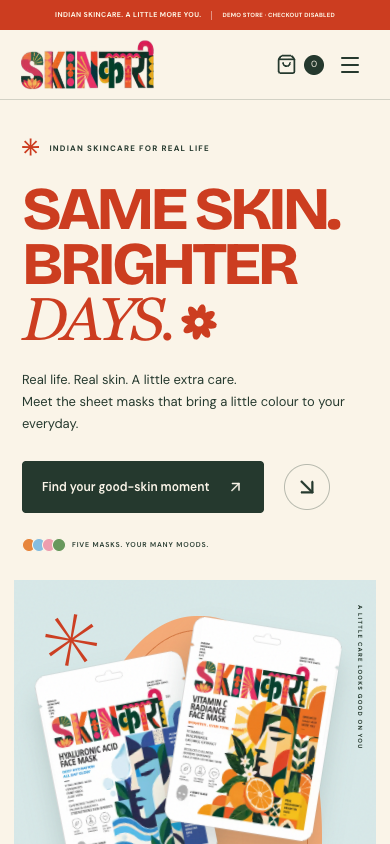
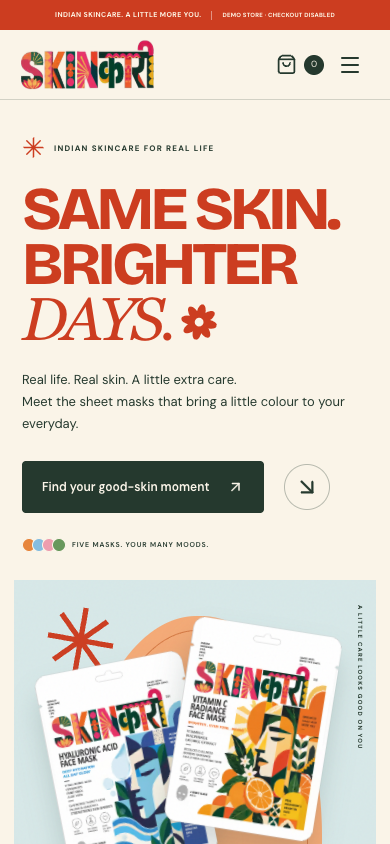
Render brand decorations as SVG across devices

Changed region(s): [[0.0615, 0.154, 0.5538, 0.1848], [0.1231, 0.7085, 0.3077, 0.8009]]

diff --git a/src/app/page.tsx b/src/app/page.tsx
@@ -8,6 +8,7 @@ import {
   Waves,
 } from "lucide-react";
 import { Hero } from "@/components/hero";
+import { BrandSpark } from "@/components/brand-spark";
 import { ProductCard } from "@/components/product-card";
 import { Spotlight } from "@/components/spotlight";
 import { Reveal } from "@/components/motion";
@@ -25,13 +26,21 @@ export default async function Home() {
       <Hero />
       <div className="brand-ribbon" aria-hidden="true">
         <span>REAL SKIN</span>
-        <span>✳</span>
+        <span>
+          <BrandSpark />
+        </span>
         <span>COLOURFUL CARE</span>
-        <span>✳</span>
+        <span>
+          <BrandSpark />
+        </span>
         <span>A MOMENT FOR YOU</span>
-        <span>✳</span>
+        <span>
+          <BrandSpark />
+        </span>
         <span>BRIGHTER DAYS</span>
-        <span>✳</span>
+        <span>
+          <BrandSpark />
+        </span>
       </div>
       <section className="section product-discovery" id="meet-the-masks">
         <Reveal>
@@ -123,7 +132,9 @@ export default async function Home() {
       <section className="section story-section">
         <Reveal className="story-art">
           <span className="story-arch" />
-          <span className="story-sun">✳</span>
+          <span className="story-sun">
+            <BrandSpark />
+          </span>
           <p>
             ROOTED IN
             <br />
@@ -238,7 +249,7 @@ export default async function Home() {
               n: "03",
               title: "Pat. Glow. Go.",
               text: "Pat the remaining serum into your face and neck.",
-              icon: "✳",
+              icon: <BrandSpark />,
             },
           ].map((step) => (
             <Reveal className="ritual-step" key={step.n}>

diff --git a/src/components/hero.tsx b/src/components/hero.tsx
@@ -3,12 +3,16 @@ import Image from "next/image";
 import Link from "next/link";
 import { ArrowDownRight, ArrowUpRight } from "lucide-react";
 import { motion } from "motion/react";
+import { BrandSpark } from "@/components/brand-spark";
 export function Hero() {
   return (
     <section className="hero">
       <div className="hero-copy">
         <p className="eyebrow">
-          <span className="tiny-spark">✳</span> INDIAN SKINCARE FOR REAL LIFE
+          <span className="tiny-spark">
+            <BrandSpark />
+          </span>{" "}
+          INDIAN SKINCARE FOR REAL LIFE
         </p>
         <motion.h1
           initial={false}
@@ -71,7 +75,7 @@ export function Hero() {
       <div className="hero-art">
         <div className="hero-arch" aria-hidden="true" />
         <span className="hero-art-star" aria-hidden="true">
-          ✳
+          <BrandSpark />
         </span>
         <span className="hero-vertical">A LITTLE CARE LOOKS GOOD ON YOU</span>
         <motion.div

diff --git a/src/app/products/[handle]/page.tsx b/src/app/products/[handle]/page.tsx
@@ -6,6 +6,7 @@ import { getProduct, getProducts } from "@/lib/commerce";
 import { getEditorialProduct } from "@/data/products";
 import { ProductPurchase } from "@/components/product-purchase";
 import { ProductCard } from "@/components/product-card";
+import { BrandSpark } from "@/components/brand-spark";
 import { jsonLd, pageMetadata, siteUrl } from "@/lib/seo";
 type Props = { params: Promise<{ handle: string }> };
 export async function generateMetadata({ params }: Props) {
@@ -67,7 +68,7 @@ export default async function ProductPage({ params }: Props) {
           >
             <span className="detail-art-circle" />
             <span className="detail-art-flower" aria-hidden="true">
-              ✳
+              <BrandSpark />
             </span>
             {image && (
               <Image

diff --git a/src/components/spotlight.tsx b/src/components/spotlight.tsx
@@ -5,6 +5,7 @@ import Link from "next/link";
 import { ArrowUpRight } from "lucide-react";
 import { AnimatePresence, motion } from "motion/react";
 import { getEditorialProduct } from "@/data/products";
+import { BrandSpark } from "@/components/brand-spark";
 import type { Product } from "@/lib/commerce/types";
 export function Spotlight({ products }: { products: Product[] }) {
   const [active, setActive] = useState(0);
@@ -64,7 +65,7 @@ export function Spotlight({ products }: { products: Product[] }) {
       <div className="spotlight-art">
         <div className="spotlight-circle" aria-hidden="true" />
         <span className="spotlight-star" aria-hidden="true">
-          ✳
+          <BrandSpark />
         </span>
         <AnimatePresence mode="wait" initial={false}>
           <motion.div

diff --git a/src/app/shop/page.tsx b/src/app/shop/page.tsx
@@ -2,6 +2,7 @@ import Link from "next/link";
 import { getProducts } from "@/lib/commerce";
 import { getEditorialProduct } from "@/data/products";
 import { ProductCard } from "@/components/product-card";
+import { BrandSpark } from "@/components/brand-spark";
 import { pageMetadata } from "@/lib/seo";
 export const metadata = pageMetadata(
   "Shop all face masks",
@@ -77,7 +78,9 @@ export default async function Shop({
         </p>
       )}
       <div className="shop-footer-note">
-        <span>✳</span>
+        <span>
+          <BrandSpark />
+        </span>
         <p>
           Same skin. A different kind of day.
           <br />

diff --git a/src/components/footer.tsx b/src/components/footer.tsx
@@ -1,5 +1,6 @@
 import Link from "next/link";
 import { ArrowUpRight } from "lucide-react";
+import { BrandSpark } from "@/components/brand-spark";
 export function Footer() {
   return (
     <footer className="site-footer">
@@ -33,7 +34,10 @@ export function Footer() {
         </div>
       </div>
       <div className="footer-wordmark" aria-hidden="true">
-        SKINKARI<span>✳</span>
+        SKINKARI
+        <span>
+          <BrandSpark />
+        </span>
       </div>
       <div className="footer-bottom">
         <span>

diff --git a/src/components/brand-spark.tsx b/src/components/brand-spark.tsx
@@ -1,0 +1,18 @@
+// Draw the brand mark instead of relying on a platform's text/emoji font.
+export function BrandSpark() {
+  return (
+    <svg
+      className="brand-spark"
+      width="1em"
+      height="1em"
+      viewBox="0 0 100 100"
+      fill="none"
+      stroke="currentColor"
+      strokeWidth="7"
+      aria-hidden="true"
+      focusable="false"
+    >
+      <path d="M50 6v88M6 50h88M19 19l62 62M19 81l62-62" />
+    </svg>
+  );
+}

diff --git a/src/app/not-found.tsx b/src/app/not-found.tsx
@@ -1,8 +1,11 @@
 import Link from "next/link";
+import { BrandSpark } from "@/components/brand-spark";
 export default function NotFound() {
   return (
     <div className="status-page section">
-      <span aria-hidden="true">✳</span>
+      <span aria-hidden="true">
+        <BrandSpark />
+      </span>
       <p className="eyebrow">404 · A LITTLE DETOUR</p>
       <h1>
         This page took

diff --git a/src/app/shop/loading.tsx b/src/app/shop/loading.tsx
@@ -1,8 +1,10 @@
+import { BrandSpark } from "@/components/brand-spark";
+
 export default function Loading() {
   return (
     <div className="loading-page section" role="status">
       <span className="loading-flower" aria-hidden="true">
-        ✳
+        <BrandSpark />
       </span>
       <p>A little care is on its way…</p>
     </div>

diff --git a/src/app/globals.css b/src/app/globals.css
@@ -53,6 +53,10 @@ img {
   max-width: 100%;
   height: auto;
 }
+.brand-spark {
+  display: block;
+  flex-shrink: 0;
+}
 button:focus-visible,
 a:focus-visible,
 summary:focus-visible,

diff --git a/docs/QA-REPORT.md b/docs/QA-REPORT.md
@@ -33,6 +33,8 @@ The final suite ran against `next start`, not only the development server, using
 
 Final screenshots are saved in `docs/previews/`. Browser traces/report output stays in ignored `test-results/` and `playwright-report/`.
 
+After replacing the decorative text stars with inline SVGs, the production build, ESLint and TypeScript checks passed again. Eight targeted Chrome checks passed for layout, accessibility, 404 recovery and content without JavaScript. WebKit 27.2 also passed home, shop, product and 404 checks at 1024×768, 768×1024 and 390×844: no horizontal overflow or unexpected browser errors. All six WebKit axe scans (home and product at each size) passed. Visual inspection confirmed the orange/cream vector decorations in place of the green emoji boxes, including the tablet hero and story artwork. Existing preview screenshots were refreshed.
+
 ## Commerce coverage
 
 The 21 tests exercise configuration failures, untrusted cart input, quantity limits, cross-origin requests, local proxy origins, malformed/oversized bodies, demo serialization, unavailable products, product/variant pagination, Shopify contextual prices (including zero), exact cart subtotals, expired carts, HttpOnly cookies, provider errors and checkout hostname validation. Catalogue regression checks also ensure every supplied PDF has a product and Brightening Mask does not inherit unsupported instructions. Live Shopify responses are mocked; these are not merchant-store transaction tests.
@@ -41,11 +43,13 @@ The 21 tests exercise configuration failures, untrusted cart input, quantity lim
 
 Browser QA caught and resolved a local host/origin mismatch that blocked mutations, low-contrast small orange labels, a cart accessible-name mismatch, narrow-screen headline overflow and streamed missing-product responses returning HTTP 200. Code review also corrected stale cart response races, expired-cart recovery and use of authoritative Shopify cart-line prices.
 
+User screenshots revealed that Apple devices rendered the decorative eight-spoked text character as a green emoji. All instances now use one shared, font-independent SVG with the existing section colors and responsive sizes.
+
 ## Verification limits and launch requirements
 
 - No real Shopify store credentials were supplied. Live products, merchant availability, shipping/tax/discount calculations and checkout must be tested on the configured merchant store before claiming a working purchase flow.
 - No payment was attempted or card information collected.
 - Product photography, complete ingredients, merchant details and commercial/legal policies remain pending; see `EDITORIAL-TODO.md`.
-- Chrome desktop/mobile emulation is not physical-device or Safari/Firefox testing. Automated axe checks do not replace a full assistive-technology audit.
+- Chrome and Playwright WebKit viewport emulation are not physical-device or installed Safari/Firefox testing. Automated axe checks do not replace a full assistive-technology audit.
 - No field Core Web Vitals or production traffic measurements are available. Image optimization, local preloaded fonts, stable image dimensions and restrained motion are implemented, but no unmeasured performance score is claimed.
 - This report verifies the local production build. The user reported a successful prior Vercel deployment; deployment of this correction must be confirmed in Vercel. The storefront defaults to an unindexed demo.
